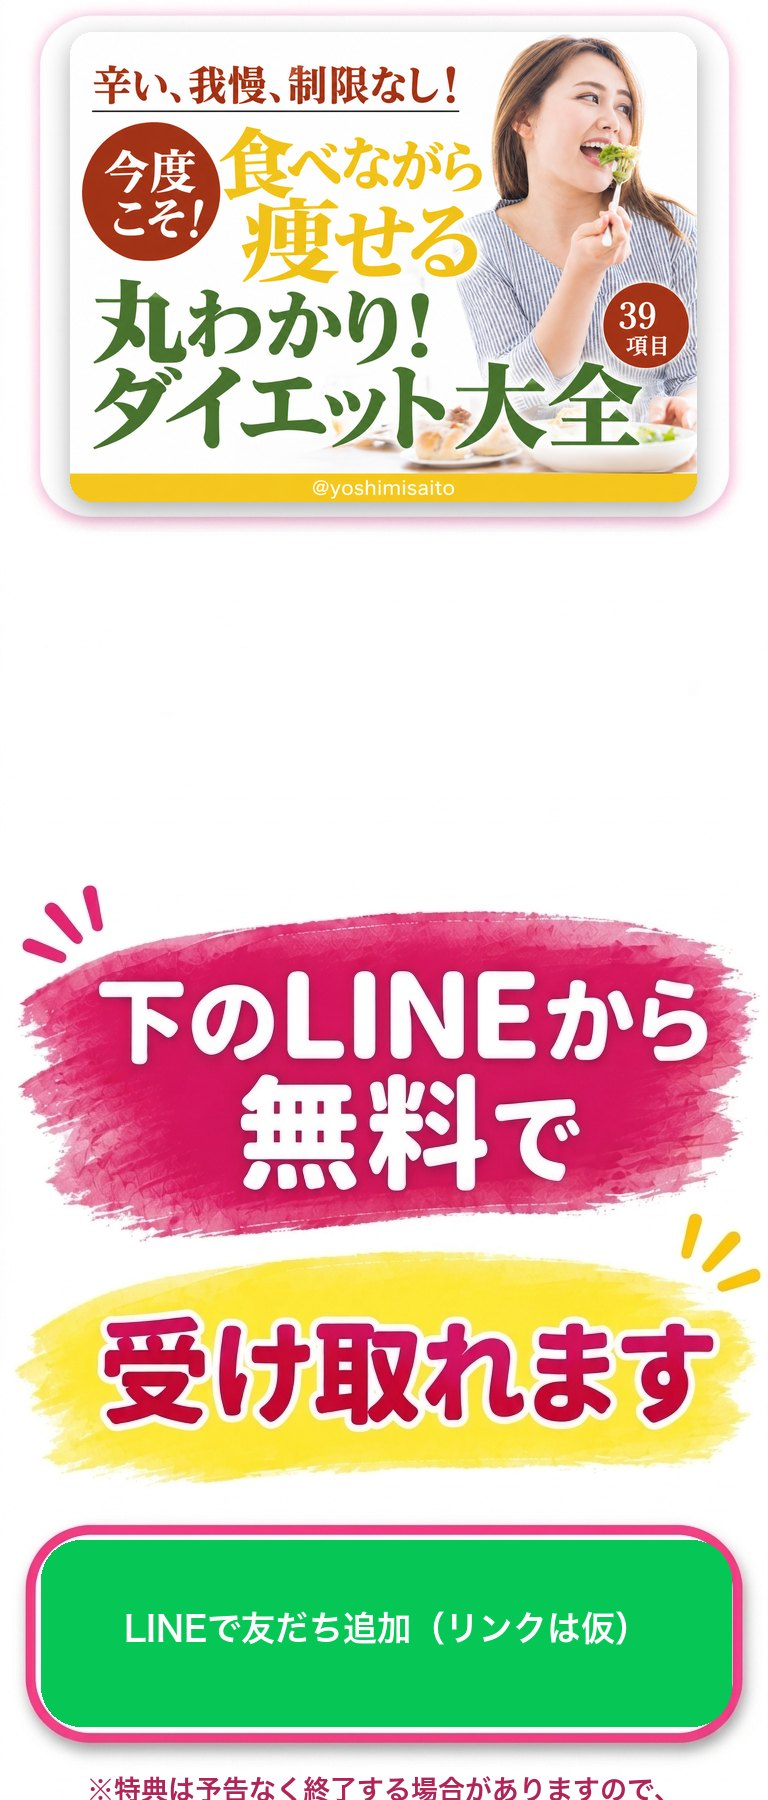
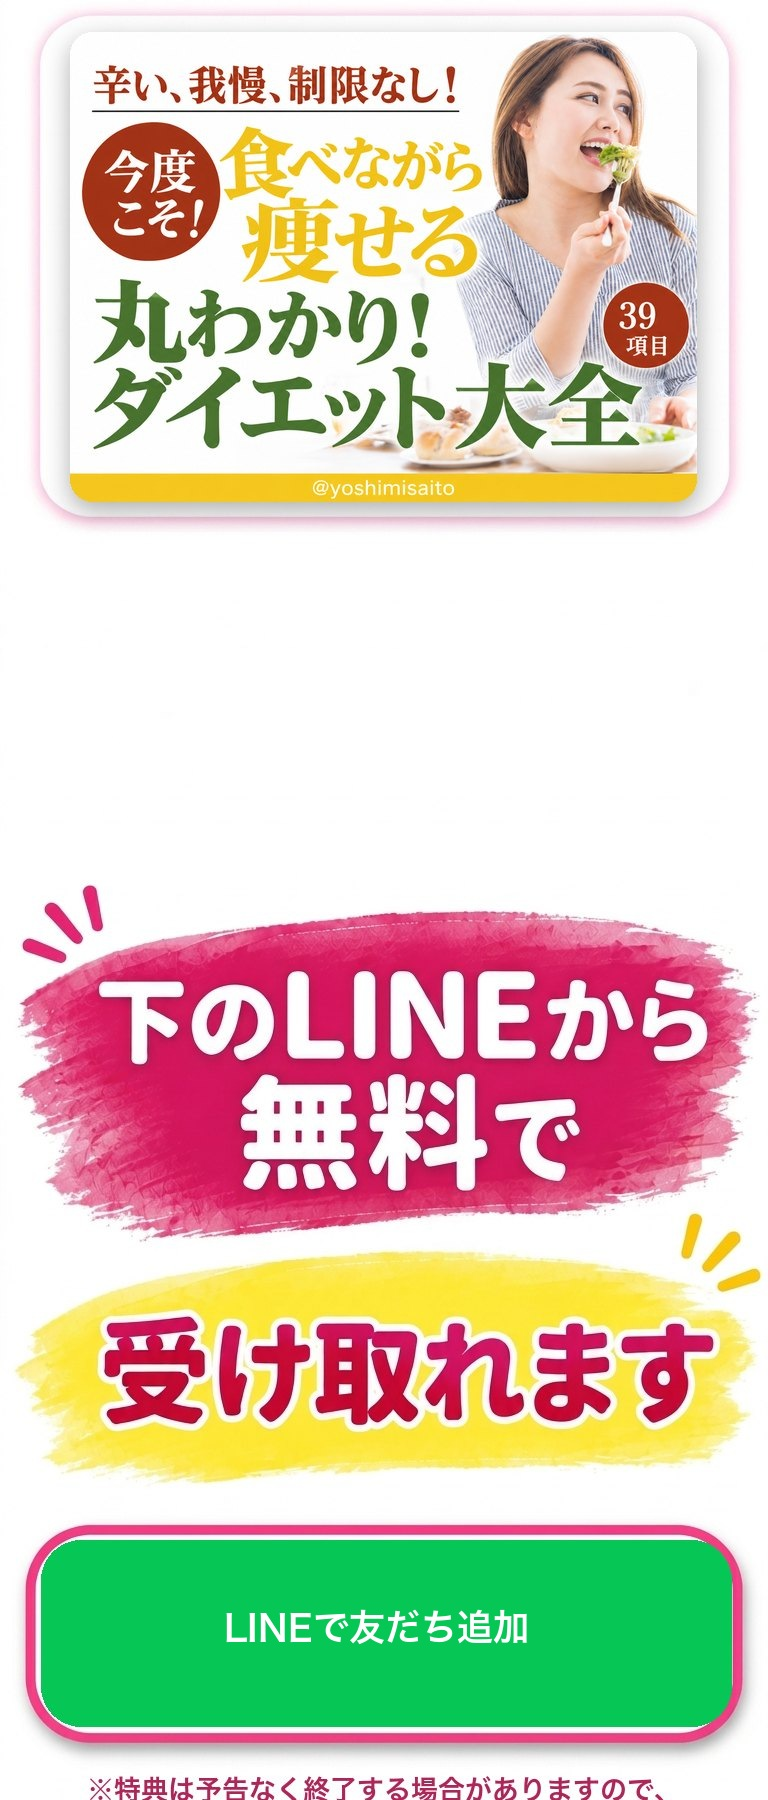
ボタン画像の「リンクは仮」を削除・画像ボタンにもLINEリンク

Changed region(s): [[0.1562, 0.8711, 0.8125, 0.9333]]

diff --git a/index.html b/index.html
@@ -2,4 +2,4 @@
 <style>body{margin:0;background:#fff}.w{max-width:480px;margin:0 auto}.w img{display:block;width:100%}
 .sticky{position:fixed;left:0;right:0;bottom:0;background:rgba(255,255,255,.95);padding:10px 14px;border-top:3px solid #f6b3c0}
 .sticky a{display:block;max-width:420px;margin:0 auto;background:#06c755;color:#fff;font-weight:700;font-size:18px;padding:13px;border-radius:999px;text-align:center;text-decoration:none;font-family:"Hiragino Sans",sans-serif;box-shadow:0 4px 0 #04994a}</style></head>
-<body><div class="w"><img src="p01.jpg" alt=""><img src="p02.jpg" alt=""><img src="p03.jpg" alt=""><img src="p04.jpg" alt=""><img src="p05.jpg" alt=""><img src="p06.jpg" alt=""><img src="p07.jpg" alt=""><img src="p08.jpg" alt=""><img src="p09.jpg" alt=""><img src="p10.jpg" alt=""></div><div class="sticky"><a href="https://lin.ee/VeUwJHO">LINEで友だち追加</a></div></body></html>
+<body><div class="w"><img src="p01.jpg" alt=""><img src="p02.jpg" alt=""><img src="p03.jpg" alt=""><img src="p04.jpg" alt=""><img src="p05.jpg" alt=""><img src="p06.jpg" alt=""><img src="p07.jpg" alt=""><img src="p08.jpg" alt=""><a href="https://lin.ee/VeUwJHO"><img src="p09.jpg" alt=""></a><img src="p10.jpg" alt=""></div><div class="sticky"><a href="https://lin.ee/VeUwJHO">LINEで友だち追加</a></div></body></html>
